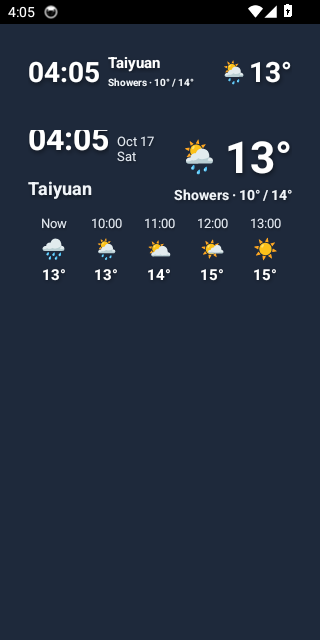
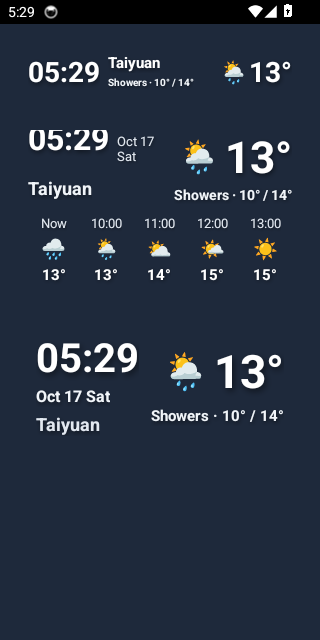
feat(widget): add 4x2 clean minimalist widget style without hourly forecast

diff --git a/android/app/src/main/kotlin/com/sbitoh/fineweather/WidgetPreviewActivity.kt b/android/app/src/main/kotlin/com/sbitoh/fineweather/WidgetPreviewActivity.kt
@@ -57,7 +57,7 @@ class WidgetPreviewActivity : Activity() {
         view4x1.findViewById<TextView>(R.id.widget_4x1_temp)?.text = temp
         view4x1.findViewById<TextView>(R.id.widget_4x1_icon)?.text = icon
 
-        // 渲染 4x2 小部件
+        // 渲染 4x2 小部件 (带近期逐小时预报)
         val view4x2 = inflater.inflate(R.layout.widget_4x2, root, false)
         view4x2.findViewById<TextView>(R.id.widget_4x2_city)?.text = localizedCity
         view4x2.findViewById<TextView>(R.id.widget_4x2_temp)?.text = temp
@@ -65,6 +65,14 @@ class WidgetPreviewActivity : Activity() {
         view4x2.findViewById<TextView>(R.id.widget_4x2_icon)?.text = icon
         view4x2.findViewById<TextView>(R.id.widget_4x2_date)?.text = localizedDate
         view4x2.findViewById<TextView>(R.id.widget_4x2_now)?.text = localizedNow
+
+        // 渲染 4x2 极简小部件 (不带近期逐小时预报，纯粹大字看板)
+        val view4x2Clean = inflater.inflate(R.layout.widget_4x2_clean, root, false)
+        view4x2Clean.findViewById<TextView>(R.id.widget_4x2_clean_city)?.text = localizedCity
+        view4x2Clean.findViewById<TextView>(R.id.widget_4x2_clean_temp)?.text = temp
+        view4x2Clean.findViewById<TextView>(R.id.widget_4x2_clean_desc)?.text = sub
+        view4x2Clean.findViewById<TextView>(R.id.widget_4x2_clean_icon)?.text = icon
+        view4x2Clean.findViewById<TextView>(R.id.widget_4x2_clean_date)?.text = localizedDate
 
         val container = android.widget.LinearLayout(this).apply {
             orientation = android.widget.LinearLayout.VERTICAL
@@ -76,18 +84,31 @@ class WidgetPreviewActivity : Activity() {
             )
             addView(view4x1, lp4x1)
             
-            val spacer = View(this@WidgetPreviewActivity).apply {
+            val spacer1 = View(this@WidgetPreviewActivity).apply {
                 layoutParams = android.widget.LinearLayout.LayoutParams(
                     android.widget.LinearLayout.LayoutParams.MATCH_PARENT, 20
                 )
             }
-            addView(spacer)
+            addView(spacer1)
             
             val lp4x2 = android.widget.LinearLayout.LayoutParams(
                 android.widget.LinearLayout.LayoutParams.MATCH_PARENT,
                 android.widget.LinearLayout.LayoutParams.WRAP_CONTENT
             )
             addView(view4x2, lp4x2)
+
+            val spacer2 = View(this@WidgetPreviewActivity).apply {
+                layoutParams = android.widget.LinearLayout.LayoutParams(
+                    android.widget.LinearLayout.LayoutParams.MATCH_PARENT, 20
+                )
+            }
+            addView(spacer2)
+
+            val lp4x2Clean = android.widget.LinearLayout.LayoutParams(
+                android.widget.LinearLayout.LayoutParams.MATCH_PARENT,
+                android.widget.LinearLayout.LayoutParams.WRAP_CONTENT
+            )
+            addView(view4x2Clean, lp4x2Clean)
         }
 
         root.addView(container)

diff --git a/android/app/src/main/kotlin/com/sbitoh/fineweather/WeatherWidget4x2CleanProvider.kt b/android/app/src/main/kotlin/com/sbitoh/fineweather/WeatherWidget4x2CleanProvider.kt
@@ -1,0 +1,66 @@
+package com.sbitoh.fineweather
+
+import android.app.PendingIntent
+import android.appwidget.AppWidgetManager
+import android.appwidget.AppWidgetProvider
+import android.content.Context
+import android.content.Intent
+import android.widget.RemoteViews
+
+class WeatherWidget4x2CleanProvider : AppWidgetProvider() {
+    override fun onUpdate(context: Context, appWidgetManager: AppWidgetManager, appWidgetIds: IntArray) {
+        val prefsFlutter = context.getSharedPreferences("FlutterSharedPreferences", Context.MODE_PRIVATE)
+        val prefsHomeWidget = context.getSharedPreferences("HomeWidgetPreferences", Context.MODE_PRIVATE)
+
+        fun getPref(key: String): String? {
+            return prefsHomeWidget.getString(key, null)
+                ?: prefsFlutter.getString("flutter.$key", null)
+                ?: prefsFlutter.getString(key, null)
+        }
+
+        val city = getPref("widget_city") ?: "Taiyuan"
+        val temp = getPref("widget_temp") ?: "13°"
+        val desc = getPref("widget_desc") ?: "Showers"
+        val sub = getPref("widget_sub") ?: "Showers · 10° / 14°"
+        val icon = getPref("widget_icon") ?: "🌦"
+        val date = getPref("widget_date") ?: "Oct 17 Sat"
+
+        val isEn = prefsFlutter.getString("flutter.app_lang", "en") == "en"
+        val localizedCity = if (isEn) {
+            if (city.contains("太原")) "Taiyuan" else city
+        } else {
+            if (city.equals("taiyuan", true)) "太原" else city
+        }
+        val localizedDate = if (isEn) {
+            if (date.contains("月") || date.contains("周")) "Oct 17 Sat" else date
+        } else {
+            if (date.contains("Oct") || date.contains("Sat")) "10月17日 周六" else date
+        }
+
+        for (appWidgetId in appWidgetIds) {
+            val intent = Intent(context, MainActivity::class.java).apply {
+                flags = Intent.FLAG_ACTIVITY_NEW_TASK or Intent.FLAG_ACTIVITY_CLEAR_TOP
+            }
+            val pendingIntent = PendingIntent.getActivity(
+                context,
+                appWidgetId,
+                intent,
+                PendingIntent.FLAG_UPDATE_CURRENT or PendingIntent.FLAG_IMMUTABLE
+            )
+
+            try {
+                val views = RemoteViews(context.packageName, R.layout.widget_4x2_clean)
+                views.setTextViewText(R.id.widget_4x2_clean_city, localizedCity)
+                views.setTextViewText(R.id.widget_4x2_clean_temp, temp)
+                views.setTextViewText(R.id.widget_4x2_clean_desc, sub)
+                views.setTextViewText(R.id.widget_4x2_clean_icon, icon)
+                views.setTextViewText(R.id.widget_4x2_clean_date, localizedDate)
+                views.setOnClickPendingIntent(R.id.widget_4x2_clean_root, pendingIntent)
+
+                appWidgetManager.updateAppWidget(appWidgetId, views)
+            } catch (e: Exception) {
+                e.printStackTrace()
+            }
+        }
+    }
+}

diff --git a/lib/services/weather_repository.dart b/lib/services/weather_repository.dart
@@ -153,6 +153,11 @@ class WeatherRepository {
         androidName: 'WeatherWidget4x2Provider',
         qualifiedAndroidName: 'com.sbitoh.fineweather.WeatherWidget4x2Provider',
       );
+      await HomeWidget.updateWidget(
+        name: 'WeatherWidget4x2CleanProvider',
+        androidName: 'WeatherWidget4x2CleanProvider',
+        qualifiedAndroidName: 'com.sbitoh.fineweather.WeatherWidget4x2CleanProvider',
+      );
     } catch (_) {}
   }
 

diff --git a/README.md b/README.md
@@ -44,7 +44,8 @@
 
 ### 📱 原生全透明桌面小部件 (Home Widgets)
 - **4×1 单行条形小部件**：实时大时钟、城市名、当前天气状况、温差范围与实时大温度——单行自适应排版，**坚决不换行、不截断、不冒省略号**。
-- **4×2 气象看板大部件**：系统实时走日期（如 `10月17日 周六` / `Oct 17 Sat`）、当前天气、温湿体感与 5 节点逐小时预报（首栏带精准 `现在 / Now`）。
+- **4×2 极简大字看板小部件（新增·纯净版）**：**不带近期预报胶囊**，专为追求极致留白与大字视觉设计。左侧超大时钟、日期与城市；右侧天气大图标、实时大温度与天气描述。
+- **4×2 全功能气象看板小部件**：系统实时走日期（如 `10月17日 周六` / `Oct 17 Sat`）、当前天气、温湿体感与 5 节点逐小时预报（首栏带精准 `现在 / Now`）。
 - **100% 全透明背景**：白字带精细抗模糊阴影，无论浅色天空、暗色壁纸还是繁复的城市夜景，均清晰锐利。
 - **彻底去除应用标签**：桌面小部件彻底抹除多余系统标题与“初晴天气”字样，极简清爽。
 
@@ -119,6 +120,7 @@ flutter build apk --release
 
 ### 📱 Transparent Android Home Screen Widgets
 - **4×1 Compact Ribbon**: Bold clock, localized city name, real-time temperature, condition status, and high/low range—engineered for single-line display with **zero text-wrapping or clipping**.
+- **4×2 Minimalist Clean Widget (New)**: **Without hourly forecast capsules**, dedicated to high readability and elegant negative space. Huge clock, date & city on the left; big icon, huge temperature & weather summary on the right.
 - **4×2 Weather Dashboard**: Real-time clock with synchronized live date display (e.g. `Oct 17 Sat`), weather summary, and a 5-step hourly forecast timeline starting with `Now`.
 - **100% Transparent Background**: Crisp white typography with subtle drop shadows, ensuring legibility across any wallpaper.
 - **Clean Aesthetic**: Completely free of unnecessary application branding or system widget label clutter.
